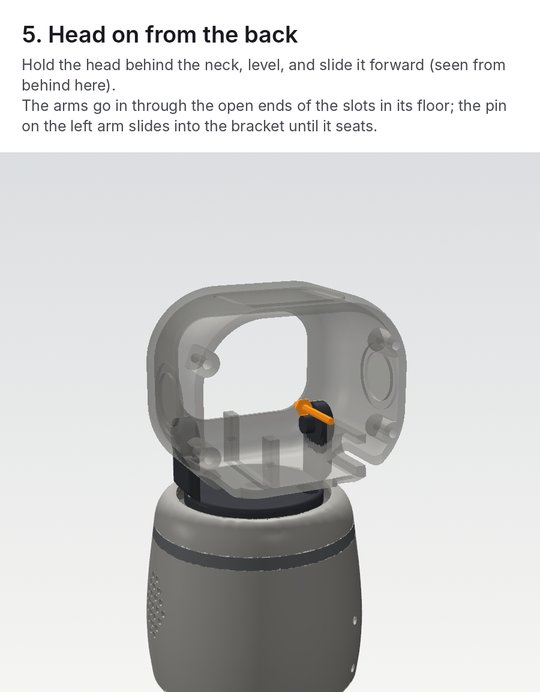
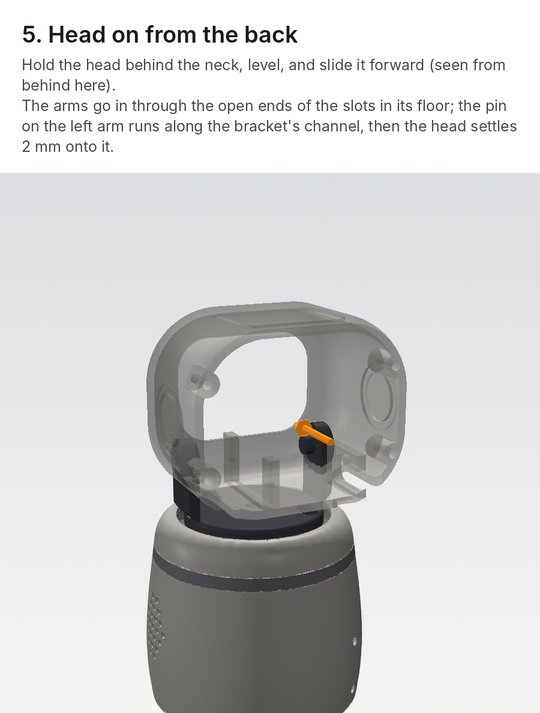
Pod: the pin runs along a channel and lifts into a seat, so the head can't slide back off
Claude-Session: https://claude.ai/code/session_012i1oPz2httJgKX5brpsP29

Changed region(s): [[0.0, 0.0303, 1.0, 0.2428], [0.2667, 0.3945, 0.7704, 0.9104], [0.3259, 0.5766, 0.3556, 0.6069]]

diff --git a/pod/cad/kit_pod_v2.py b/pod/cad/kit_pod_v2.py
@@ -111,6 +111,8 @@ L_BRACKET_X1 = TILT_TAB_X - (tab_under + tab_t) - SLIDE   # pin bracket inside t
 L_BRACKET_X0 = L_BRACKET_X1 - 3.0
 L_ARM_X1 = L_BRACKET_X0 - 0.5                    # inside face of the left arm
 ARM_HALF_Y = 7.0
+PIN_DROP = 2.0                                   # the pin comes in along a channel this far below its seat, then
+                                                 # the head settles onto it: it can't slide back out
 BULK_X0, BULK_X1 = TILT_TAB_X, TILT_TAB_X + 3.0  # tabs pull against the -X face of this wall
 WIRE_XY = (-13.5, TILT_Y + 10.5)                 # wires from the head down through the neck
 
@@ -273,11 +275,15 @@ def head():
     bulk = bulk.cut(box(BULK_X0 - 1, TILT_Y - servo_l + shaft_from_end - 0.4, TILT_Z - servo_w / 2 - 0.4,
                         BULK_X1 + 1, TILT_Y + shaft_from_end + 0.4, 99))
     bulk = bulk.cut(to_tilt(sg90_screw_holes(-0.01, 3.0)))
-    # bracket for the left arm's pin: a slot open toward the back, so the pin slides forward into its seat
-    # as the neck comes in through the open back, and rests on the shelf under it
+    # bracket for the left arm's pin: a channel open toward the back, a step below the seat, so the pin slides
+    # forward along it as the neck comes in through the open back; at the end the head settles PIN_DROP onto
+    # the pin, which lifts into its round seat, and the pin can't slide back along the channel
     brk = box(L_BRACKET_X0, TILT_Y - ARM_HALF_Y, FLOOR - 0.5, L_BRACKET_X1, H_CUT, TILT_Z + 6.0)
-    notch = box(L_BRACKET_X0 - 1, TILT_Y, TILT_Z - 3.3, L_BRACKET_X1 + 1, H_CUT + 1, TILT_Z + 3.3)
-    brk = brk.cut(notch.union(cyl(6.6, 5, (L_BRACKET_X0 - 1, TILT_Y, TILT_Z), "X")))
+    x0, x1 = L_BRACKET_X0 - 1, L_BRACKET_X1 + 1
+    channel = (box(x0, TILT_Y, TILT_Z - PIN_DROP - 3.3, x1, H_CUT + 1, TILT_Z - PIN_DROP + 3.3)
+               .union(cyl(6.6, x1 - x0, (x0, TILT_Y, TILT_Z - PIN_DROP), "X")))
+    seat = cyl(6.6, x1 - x0, (x0, TILT_Y, TILT_Z), "X").union(box(x0, TILT_Y - 3.3, TILT_Z - PIN_DROP, x1, TILT_Y + 3.3, TILT_Z))
+    brk = brk.cut(channel.union(seat))
     shell = shell.union(bulk.union(brk).intersect(inside))
     # bosses for the back cover
     for x, z in head_cover_bosses():
@@ -585,10 +591,11 @@ def check(p):
     horn = horn_single(0.0).rotate((0, 0, 0), (0, 1, 0), 90).translate((R_ARM_X0 + POCKET - horn_t, TILT_Y, TILT_Z))
     hub = cyl(HUB_D, horn_above_shaft + 2.0, (SHAFT_TOP_X - 2.0, TILT_Y, TILT_Z), "X")
     coming = p["neck"].union(horn).union(hub)
-    for back in (3.0, 8.0, 14.0, 20.0):
-        vol = p["head"].intersect(coming.translate((0, back, 0))).val().Volume()
+    # along the channel the head rides PIN_DROP high on the neck, then settles onto the pin
+    for back, up in ((20.0, PIN_DROP), (14.0, PIN_DROP), (8.0, PIN_DROP), (3.0, PIN_DROP), (0.0, PIN_DROP), (0.0, PIN_DROP / 2)):
+        vol = p["head"].intersect(coming.translate((0, back, -up))).val().Volume()
         if vol > 0.05:
-            problems.append((back, "neck coming in", "head", round(vol, 2)))
+            problems.append((back, f"neck coming in, head {up:.0f} mm up", "head", round(vol, 2)))
     for deg in (0, TILT_DEG, -TILT_DEG):
         moved = {k: tilted(v, deg) if k in TILTING else v for k, v in solids.items()}
         names = list(moved)
@@ -649,7 +656,7 @@ def main():
 if __name__ == "__main__":
     if sys.argv[1:] == ["check"]:
         found = check(parts())
-        print("\n".join(f"{'tilt' if a != 'neck coming in' else 'back'} {d:+5.1f}: {a} hits {b} ({v} mm3)"
+        print("\n".join(f"{'back' if a.startswith('neck coming in') else 'tilt'} {d:+5.1f}: {a} hits {b} ({v} mm3)"
                         for d, a, b, v in found) or "No parts hit each other.")
     else:
         main()

diff --git a/pod/cad/render_steps.py b/pod/cad/render_steps.py
@@ -178,7 +178,7 @@ def steps():
 
     yield ("Head on from the back", [
         "Hold the head behind the neck, level, and slide it forward (seen from behind here).",
-        "The arms go in through the open ends of the slots in its floor; the pin on the left arm slides into the bracket until it seats.",
+        "The arms go in through the open ends of the slots in its floor; the pin on the left arm runs along the bracket's channel, then the head settles 2 mm onto it.",
     ], [part("body"), part("top"), part("cap"), part("neck"), part("horn_tilt", HORN),
         part("head", move=(0, 24, 0), opacity=0.45)],
         [((0, 50, k.TILT_Z + 16), (0, 28, k.TILT_Z + 16))], (155, 16, 300), (0, 12, 30))

diff --git a/pod/cad/README.md b/pod/cad/README.md
@@ -69,7 +69,7 @@ Pictures for every step: `assembly/kit_pod_v2_assembly_guide.pdf` (one PNG per s
 2. Sandwich the plate between body and cap with the three long screws from below.
 3. Press the cross horn into the pocket under the neck (drop of glue). Push the neck onto the turn servo and fit the horn screw through the centre hole from above.
 4. Press the single horn into the pocket on the inside of the horn arm (the arm on your right as Kit faces you), arm pointing down, drop of glue.
-5. Hold the head behind the neck, level, and slide it forward: the arms go in through the open ends of the floor slots, and the pin on the other arm slides into its bracket until it seats on the shelf.
+5. Hold the head behind the neck, level, and slide it forward: the arms go in through the open ends of the floor slots, and the pin on the other arm runs along the channel in its bracket, and at the end the head settles 2 mm so the pin sits up in its seat and can't slide back.
 6. Drop the tilt servo in through the back of the head, pushed over toward the pin side, lower it into the U-shaped wall, then slide it across so its shaft goes into the horn. There's 4.5 mm of room for this.
 7. Two tab screws into the wall, then the horn screw through the small hole below the ear on the horn side. The horn is then trapped between the shaft and the arm, so the head can't come off.
 8. Screen, two options (print both and pick):

diff --git a/docs/4 Guides/Building the Pod.md b/docs/4 Guides/Building the Pod.md
@@ -106,9 +106,9 @@ the plate.
 
 > [!NOTE] Step 5
 > The head goes on from behind, level, not down from above: the arms slide in
-> through the open ends of the floor slots and the pin slides forward into its
-> bracket, where it rests on a shelf. Once the tilt servo is in, nothing can
-> slide back out.
+> through the open ends of the floor slots and the pin runs forward along the
+> channel in its bracket. At the end the head settles 2 mm so the pin sits up
+> in its round seat, and it can't slide back out.
 
 ![[pod-step-06.jpg|420]]
 
